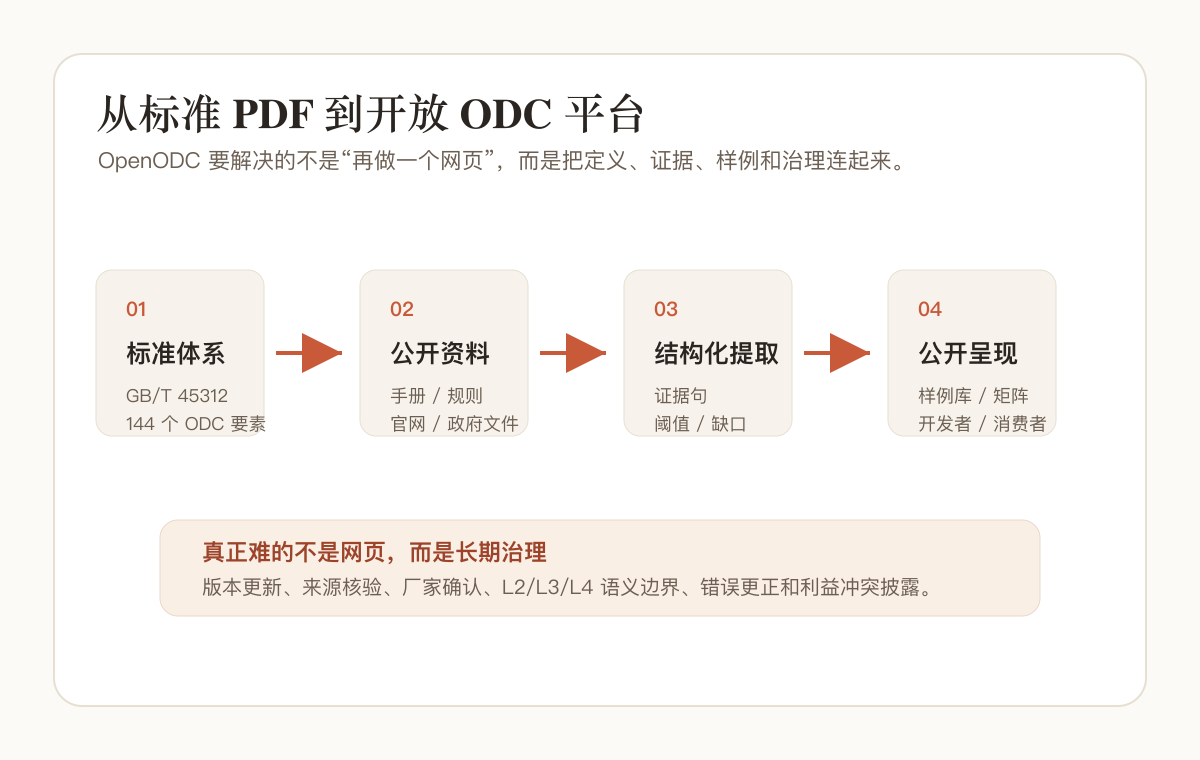
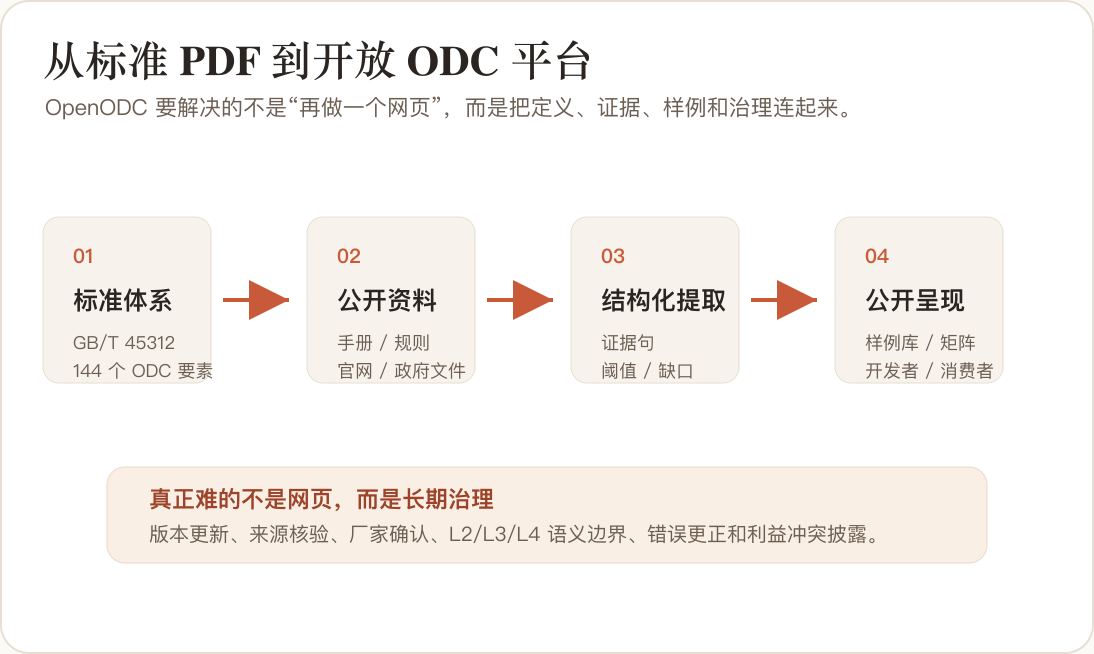
Clean PDF screenshot backgrounds

diff --git a/site/style.css b/site/style.css
@@ -5225,13 +5225,26 @@ html[lang="en"] [data-slide-key="thanks"] .thanks-template .thanks-statement {
     padding: 1.62rem 2.35rem 1.9rem !important;
     overflow: hidden !important;
     transform: none !important;
+    background: #fff !important;
     break-after: page;
     page-break-after: always;
     box-shadow: none !important;
   }
 
+  .deck-slide *,
+  .deck-slide *::before,
+  .deck-slide *::after {
+    box-shadow: none !important;
+    text-shadow: none !important;
+  }
+
   .deck-slide:not([data-slide-key="cover"]):not([data-slide-key="thanks"]) {
     padding-bottom: 3.35rem !important;
+  }
+
+  .deck-slide:not([data-slide-key="cover"]):not([data-slide-key="thanks"])::after {
+    bottom: 0 !important;
+    box-shadow: none !important;
   }
 
   [data-slide-key="thanks"] {
@@ -5422,6 +5435,18 @@ html[lang="en"] [data-slide-key="thanks"] .thanks-template .thanks-statement {
   [data-slide-key="gallery"] .slide-body,
   [data-slide-key="workbench"] .slide-body {
     align-items: stretch !important;
+  }
+
+  .slide-image-frame,
+  .project-card figure,
+  .thanks-hero-media {
+    border: 0 !important;
+    background: transparent !important;
+    box-shadow: none !important;
+  }
+
+  .slide-image-frame img {
+    box-shadow: none !important;
   }
 
   .thanks-bottom {